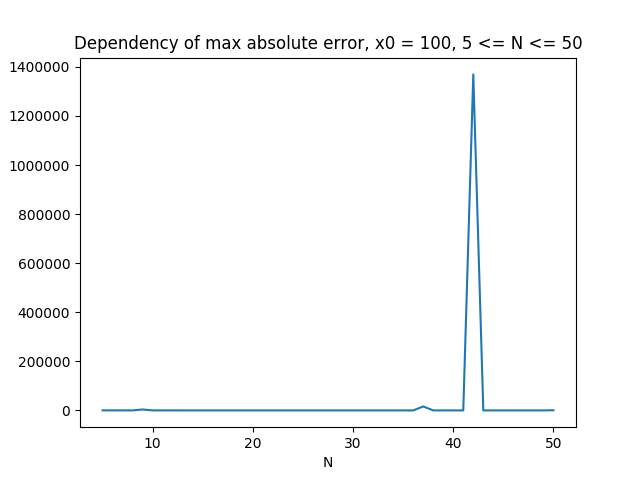
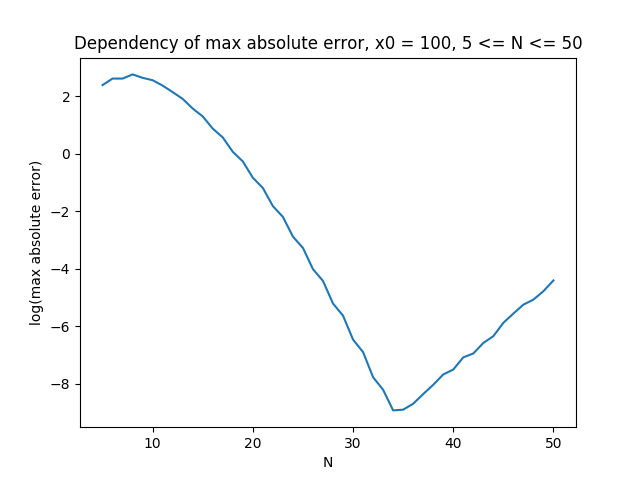
hw02: done

diff --git a/hw02/task01d.py b/hw02/task01d.py
@@ -2,37 +2,80 @@ import matplotlib.pyplot as plt
 import os
 import numpy as np
 
-from hw02.task01a import generate_values_table, get_max_absolute_error
+from hw02.task01a import generate_values_table, get_max_absolute_error, generate_knots, get_function_value, \
+    get_lagrange_polynomial_value
 from hw02.task01c import generate_interpolate_knots
 
 
-def get_function_value(x):
+def get_abs_function_value(x):
     return np.abs(np.longdouble(x) - 1)
+
+
+def build_all_errors_plot(x0, ns, filename='task01d_40_un', points_number=1000):
+    plot_name = 'Lagrange polynomial error (x0 = {x0}, N = 40)'.format(x0=x0)
+    xs = generate_knots(x0 - 1, x0 + 1, points_number)
+    plt.clf()
+    for N in ns:
+        points = generate_interpolate_knots(N + 1, x0 - 1, x0 + 1)
+        table = [(point, get_abs_function_value(point)) for point in points]
+        ys = [np.abs(get_lagrange_polynomial_value(table, x) - get_abs_function_value(x)) for x in xs]
+        plt.plot(xs, ys)
+    plt.xlabel('x')
+    plt.ylabel('absolute error')
+    plt.title(plot_name)
+    plt.savefig(os.path.join('plots', filename))
 
 
 if __name__ == '__main__':
     xs = range(5, 51)
     for x0 in [1]:
+        # build_all_errors_plot(x0, [40])
+        # ys = []
+        # for N in range(5, 51):
+        #     table = generate_values_table(x0, N, func=get_abs_function_value, delta=1)
+        #     ys.append(np.log10(get_max_absolute_error(table, x0 - 1, x0 + 1, 1000, func=get_abs_function_value)))
+        # plt.clf()
+        # plt.plot(xs, ys)
+        # plt.ylabel('log(max absolute error)')
+        # plt.xlabel('N')
+        # plt.title('Dependency of max absolute error, x0 = {x0}, 5 <= N <= 50'.format(x0=x0))
+        # plt.savefig(os.path.join('plots', 'task01d(b)'))
+        #
+        # ys = []
+        # for N in range(5, 51):
+        #     table = generate_values_table(x0, N, points=generate_interpolate_knots(N + 1, x0 - 1, x0 + 1), delta=1,
+        #                                   func=get_abs_function_value)
+        #     ys.append(np.log(get_max_absolute_error(table, x0 - 1, x0 + 1, 1000, func=get_abs_function_value)))
+        # plt.clf()
+        # plt.plot(np.log(xs), ys)
+        # plt.ylabel('log(max absolute error)')
+        # plt.xlabel('N')
+        # plt.title('Dependency of max absolute error, x0 = {x0}, 5 <= N <= 50'.format(x0=x0))
+        # plt.savefig(os.path.join('plots', 'task01d(c)'))
+        #
+        plt.clf()
         ys = []
         for N in range(5, 51):
-            table = generate_values_table(x0, N, func=get_function_value, delta=1)
-            ys.append(get_max_absolute_error(table, x0 - 1, x0 + 1, 1000))
-        plt.clf()
+            table = generate_values_table(x0, N, func=get_abs_function_value, delta=1)
+            ys.append(np.log10(get_max_absolute_error(table, x0 - 1, x0 + 1, 1000, func=get_abs_function_value)))
         plt.plot(xs, ys)
-        plt.ylabel('max absolute error')
-        plt.xlabel('N')
-        plt.title('Dependency of max absolute error, x0 = {x0}, 5 <= N <= 50'.format(x0=x0))
-        plt.savefig(os.path.join('plots', 'task01d(b)'))
-
-    for x0 in [1]:
         ys = []
         for N in range(5, 51):
-            table = generate_values_table(x0, N, func=get_function_value, delta=1, points=generate_interpolate_knots(N))
-            ys.append(get_max_absolute_error(table, x0 - 1, x0 + 1, 1000))
-        plt.clf()
+            table = generate_values_table(x0, N, points=generate_interpolate_knots(N + 1, x0 - 1, x0 + 1), delta=1,
+                                          func=get_abs_function_value)
+            ys.append(np.log10(get_max_absolute_error(table, x0 - 1, x0 + 1, 1000, func=get_abs_function_value)))
         plt.plot(xs, ys)
-        plt.ylabel('max absolute error')
+        ys = []
+        for N in range(5, 51):
+            table = generate_values_table(100, N, points=generate_interpolate_knots(N + 1, 100 - 5, 100 + 5), delta=5)
+            ys.append(np.log10(get_max_absolute_error(table, 100 - 5, 100 + 5, 1000)))
+        plt.plot(xs, ys)
+        ys = []
+        for N in range(5, 51):
+            table = generate_values_table(100, N)
+            ys.append(np.log10(get_max_absolute_error(table, 100 - 5, 100 + 5, 1000)))
+        plt.plot(xs, ys)
+        plt.ylabel('log(max absolute error)')
         plt.xlabel('N')
-        plt.title('Dependency of max absolute error, x0 = {x0}, 5 <= N <= 50'.format(x0=x0))
-        plt.savefig(os.path.join('plots', 'task01d(c)'))
-
+        plt.title('Dependency of max absolute error, 5 <= N <= 50'.format(x0=x0))
+        plt.savefig(os.path.join('plots', 'task01d(all)'))

diff --git a/hw02/task01a.py b/hw02/task01a.py
@@ -2,8 +2,6 @@ import numpy as np
 import matplotlib.pyplot as plt
 import os
 
-eps = 1e-5
-
 
 def get_lagrange_polynomial_basis(points, substitution_point):
     """
@@ -57,6 +55,18 @@ def generate_uniform_distribution(lower, upper, number_of_values):
     return np.longdouble(np.array(list(np.random.uniform(lower, upper, number_of_values))))
 
 
+def generate_knots(lower, upper, number_of_values):
+    """
+    Function which generates several values with equal distance between neighbours.
+    :param lower: the smallest value which could be generated.
+    :param upper: the greatest value value which could be generated.
+    :param number_of_values: number of values to generate
+    :return: np.array of generated values.
+    """
+    return np.longdouble(np.array([lower + k * (1.0 * (upper - lower)) / (number_of_values - 1)
+                                   for k in range(number_of_values)]))
+
+
 def get_function_value(x):
     """
     Function which calculates the value of the x sin(2x) function.
@@ -64,10 +74,10 @@ def get_function_value(x):
     :return: substitution result.
     """
     x = np.longdouble(x)
-    return x * (np.sin(x))
+    return x * (np.sin(2 * x))
 
 
-def get_max_absolute_error(table, lower, upper, number_of_points=100000):
+def get_max_absolute_error(table, lower, upper, number_of_points=100000, func=get_function_value):
     """
     Function which calculates the largest absolute error i.e. abs(Lagrange polynomial - function value)
     :param table: list of pairs (point, value) to perform the interpolation. All the points must be different.
@@ -77,11 +87,10 @@ def get_max_absolute_error(table, lower, upper, number_of_points=100000):
     :return: the greatest absolute error of the research segment.
     """
 
-    step = np.longdouble((upper - lower) / number_of_points)
-    points = np.arange(lower, upper + eps, step)
+    points = generate_knots(lower, upper, number_of_points)
     max_error = -1
     for point in points:
-        max_error = max(max_error, np.abs(get_lagrange_polynomial_value(table, point) - get_function_value(point)))
+        max_error = max(max_error, np.abs(get_lagrange_polynomial_value(table, point) - func(point)))
     return max_error
 
 
@@ -95,7 +104,7 @@ def generate_values_table(x0, N, func=get_function_value, points=None, delta=5):
     """
 
     if points is None:
-        points = generate_uniform_distribution(x0 - delta, x0 + delta + eps, N + 1)
+        points = generate_knots(x0 - delta, x0 + delta, N + 1)
     return [(point, func(point)) for point in points]
 
 
@@ -114,9 +123,9 @@ def build_error_plot(x0, N, plot_name=None, filename=None, points_number=1000):
         plot_name = 'Lagrange polynomial error (x0 = {x0}, N = {N})'.format(x0=x0, N=N)
     if filename is None:
         filename = 'lagrange_polynomial_error_plot_{x0}_{N}'.format(x0=x0, N=N)
-    points = generate_uniform_distribution(x0 - 5, x0 + 5 + eps, N + 1)
+    points = generate_knots(x0 - 5, x0 + 5, N + 1)
     table = [(point, get_function_value(point)) for point in points]
-    xs = np.arange(x0 - 5, x0 + 5 + eps, 10.0 / points_number)
+    xs = generate_knots(x0 - 5, x0 + 5, points_number)
     ys = [np.abs(get_lagrange_polynomial_value(table, x) - get_function_value(x)) for x in xs]
 
     plt.clf()
@@ -131,7 +140,23 @@ def build_error_plot(x0, N, plot_name=None, filename=None, points_number=1000):
                                                            error=get_max_absolute_error(table, x0 - 5, x0 + 5)))
 
 
+def build_all_errors_plot(x0, ns, filename='task01a', points_number=1000):
+    plot_name = 'Lagrange polynomial error (x0 = {x0}, N = 5, 10, 15)'.format(x0=x0)
+    xs = generate_knots(x0 - 5, x0 + 5, points_number)
+    plt.clf()
+    for N in ns:
+        points = generate_knots(x0 - 5, x0 + 5, N + 1)
+        table = [(point, get_function_value(point)) for point in points]
+        ys = [np.abs(get_lagrange_polynomial_value(table, x) - get_function_value(x)) for x in xs]
+        plt.plot(xs, ys)
+    plt.xlabel('x')
+    plt.ylabel('absolute error')
+    plt.title(plot_name)
+    plt.savefig(os.path.join('plots', filename))
+
+
 if __name__ == '__main__':
     for x0 in [100]:
         for N in [5, 10, 15]:
             build_error_plot(x0, N)
+        build_all_errors_plot(x0, [5, 10, 15])

diff --git a/hw02/task01c.py b/hw02/task01c.py
@@ -2,10 +2,11 @@ import matplotlib.pyplot as plt
 import os
 import numpy as np
 
-from hw02.task01a import generate_values_table, get_max_absolute_error
+from hw02.task01a import generate_values_table, get_max_absolute_error, generate_knots, \
+    get_lagrange_polynomial_value, get_function_value
 
 
-def generate_interpolate_knots(N):
+def generate_interpolate_knots(N, lower, upper):
     """
     Generates interpolate knots as cos(Pi * (2k - 1) / ((2k - 1) * N))
     :param N: number of knots.
@@ -14,19 +15,41 @@ def generate_interpolate_knots(N):
     :return: list of the knots.
     """
 
-    return np.longdouble(np.array([np.cos((np.pi * (2 * k - 1)) / (2 * N)) for k in range(1, N + 1)]))
+    knots = np.longdouble(np.array([np.cos((np.pi * (2 * k - 1)) / (2 * N)) for k in range(1, N + 1)]))
+    return [np.longdouble(lower + upper) / 2 + (upper - lower) * knot / 2 for knot in knots]
+
+
+def build_all_errors_plot(x0, ns, filename='task01c_40', points_number=1000):
+    plot_name = 'Lagrange polynomial error (x0 = {x0}, N = 40)'.format(x0=x0)
+    xs = generate_knots(x0 - 5, x0 + 5, points_number)
+    plt.clf()
+    for N in ns:
+        points = generate_interpolate_knots(N + 1, x0 - 5, x0 + 5)
+        table = [(point, get_function_value(point)) for point in points]
+        ys = [np.abs(get_lagrange_polynomial_value(table, x) - get_function_value(x)) for x in xs]
+        plt.plot(xs, ys)
+    plt.xlabel('x')
+    plt.ylabel('absolute error')
+    plt.title(plot_name)
+    plt.savefig(os.path.join('plots', filename))
 
 
 if __name__ == '__main__':
     xs = range(5, 51)
-    for x0 in [0]:
+    for x0 in [100]:
+        build_all_errors_plot(x0, [40])
         ys = []
         for N in range(5, 51):
-            table = generate_values_table(x0, N, points=generate_interpolate_knots(N + 1), delta=1)
-            ys.append(get_max_absolute_error(table, x0 - 1, x0 + 1, 1000))
+            table = generate_values_table(x0, N, points=generate_interpolate_knots(N + 1, x0 - 5, x0 + 5), delta=5)
+            ys.append(np.log10(get_max_absolute_error(table, x0 - 5, x0 + 5, 1000)))
         plt.clf()
         plt.plot(xs, ys)
-        plt.ylabel('max absolute error')
+        ys = []
+        for N in range(5, 51):
+            table = generate_values_table(x0, N)
+            ys.append(np.log10(get_max_absolute_error(table, x0 - 5, x0 + 5, 1000)))
+        plt.plot(xs, ys)
+        plt.ylabel('log(max absolute error)')
         plt.xlabel('N')
         plt.title('Dependency of max absolute error, x0 = {x0}, 5 <= N <= 50'.format(x0=x0))
-        plt.savefig(os.path.join('plots', 'task01c'))
+        plt.savefig(os.path.join('plots', 'task01c(all)'))

diff --git a/hw02/task01b.py b/hw02/task01b.py
@@ -1,7 +1,24 @@
 import matplotlib.pyplot as plt
 import os
+import numpy as np
 
-from hw02.task01a import get_max_absolute_error, generate_values_table
+from hw02.task01a import get_max_absolute_error, generate_values_table, generate_knots, get_function_value, \
+    get_lagrange_polynomial_value
+
+
+def build_all_errors_plot(x0, ns, filename='task01b_40', points_number=1000):
+    plot_name = 'Lagrange polynomial error (x0 = {x0}, N = 40)'.format(x0=x0)
+    xs = generate_knots(x0 - 5, x0 + 5, points_number)
+    plt.clf()
+    for N in ns:
+        points = generate_knots(x0 - 5, x0 + 5, N + 1)
+        table = [(point, get_function_value(point)) for point in points]
+        ys = [np.abs(get_lagrange_polynomial_value(table, x) - get_function_value(x)) for x in xs]
+        plt.plot(xs, ys)
+    plt.xlabel('x')
+    plt.ylabel('absolute error')
+    plt.title(plot_name)
+    plt.savefig(os.path.join('plots', filename))
 
 
 if __name__ == '__main__':
@@ -10,22 +27,12 @@ if __name__ == '__main__':
         ys = []
         for N in range(5, 51):
             table = generate_values_table(x0, N)
-            ys.append(get_max_absolute_error(table, x0 - 5, x0 + 5, 1000))
+            ys.append(np.log10(get_max_absolute_error(table, x0 - 5, x0 + 5, 10000)))
         plt.clf()
         plt.plot(xs, ys)
-        plt.ylabel('max absolute error')
+        plt.ylabel('log(max absolute error)')
         plt.xlabel('N')
         plt.title('Dependency of max absolute error, x0 = {x0}, 5 <= N <= 50'.format(x0=x0))
         plt.savefig(os.path.join('plots', 'task01b'))
 
-        ys = []
-        for N in range(5, 41):
-            table = generate_values_table(x0, N)
-            ys.append(get_max_absolute_error(table, x0 - 5, x0 + 5, 1000))
-        plt.clf()
-        plt.plot(range(5, 41), ys)
-        plt.ylabel('max absolute error')
-        plt.xlabel('N')
-        plt.title('Dependency of max absolute error, x0 = {x0}, 5 <= N <= 50'.format(x0=x0))
-        plt.savefig(os.path.join('plots', 'task01b_cut'))
-
+        build_all_errors_plot(x0, [40])
